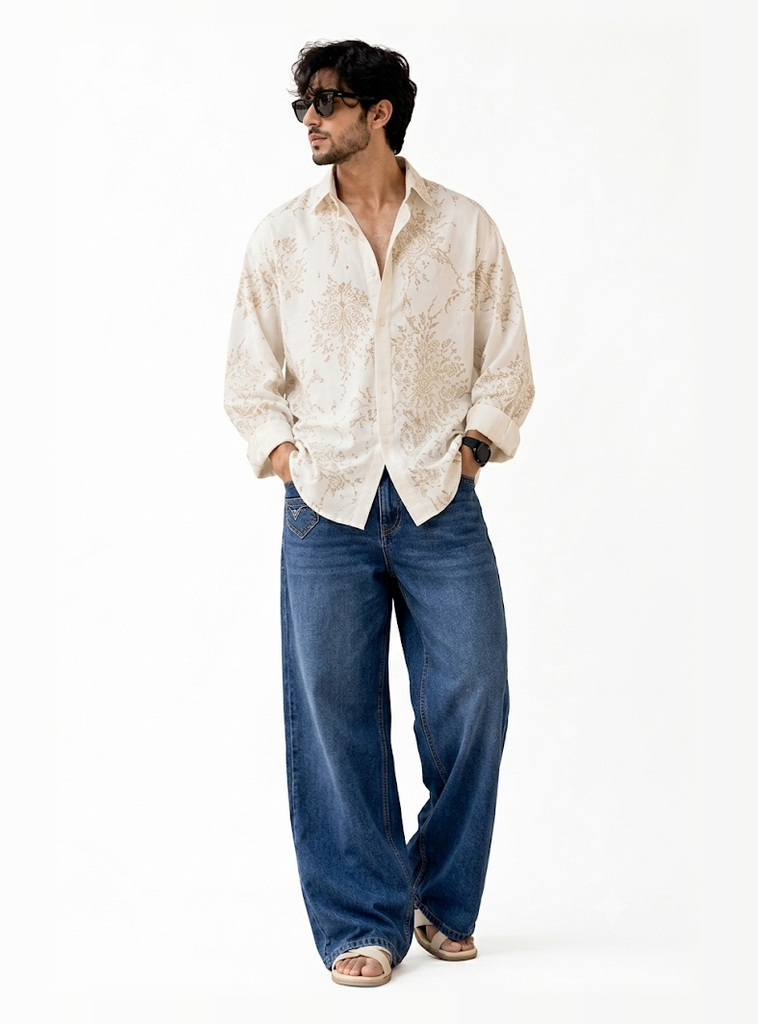
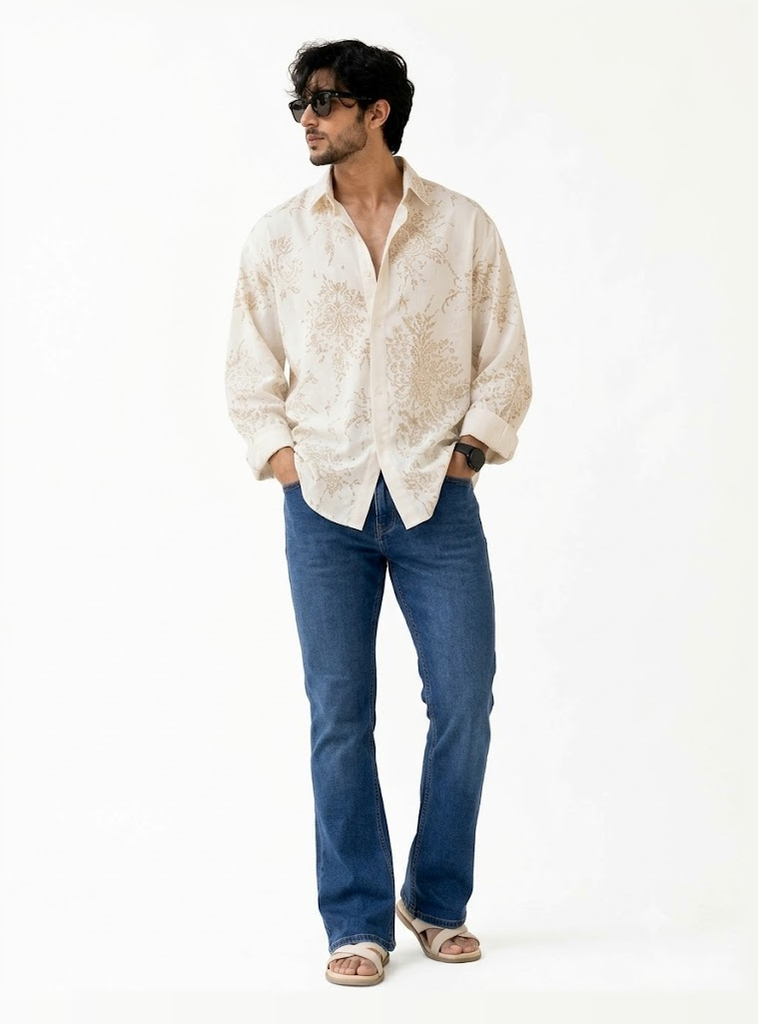
feat(lookbook): update editorial lookbook photography, replace catalog model images, and swap denim positions

Changed region(s): [[0.3034, 0.0312, 0.7282, 0.9688], [0.3641, 0.2188, 0.3945, 0.25]]

diff --git a/app.js b/app.js
@@ -428,7 +428,10 @@ function bindHome2() {
 }
 
 /* ---------- About pages (v2 system): five layouts, same facts ---------- */
-const ED = (n) => `/assets/editorial/${n}.jpg`;
+const ED = (n) => {
+  const [base, qs] = n.split("?");
+  return `/assets/editorial/${base}.jpg${qs ? `?${qs}` : ""}`;
+};
 const AB_NUMS = [["2006", "Founded in Delhi"], ["36 yrs", "Fabric sourcing"], ["08", "States served"], ["100%", "Made in India"]];
 const AB_VALUES = [
   ["Authenticity", "No borrowed heritage — twenty years of our own patterns and our own mill."],
@@ -771,7 +774,7 @@ function lookbook10() {
         <div class="lb10-page lb10-page-r">
           <p class="lb10-pg-top"><span>Looks 04 — 05</span><span>From ${lbTotal(LB2[3])}</span></p>
           <div class="lb10-sp-grid">
-            ${spreadPic("polo-pants", "50% 20%", "light-weight-pant-4037-cream")}
+            ${spreadPic("polo-pants?v=2", "50% 50%", "light-weight-pant-4037-cream")}
             ${spreadPic("stripe-chair", "50% 30%", "corduroy-shirt-141-3-brown")}
             ${spreadPic("lb-pants", "50% 60%", "brawny-5464-off-white")}
             ${spreadPic("lb-collar", "50% 40%", "denim-jacket-152-coal-grey")}
@@ -1116,11 +1119,11 @@ const PANTS_ORDER = [
 
 const DENIM_ORDER = [
   "hulk-32002-dark-blue",
-  "brawny-5551-tinted-indigo",
+  "jazz-3178-ice-berg",
   "jazz-with-fleece-035-light-blue",
   "jazz-3180-dark-blue",
   "jazz-3200-tinted-indigo",
-  "jazz-3178-ice-berg",
+  "brawny-5551-tinted-indigo",
   "jazz-3124-raw-wash",
   "jazz-with-fleece-18014-marvin-blue",
   "hulk-32003-mid-blue",

diff --git a/index.html b/index.html
@@ -93,6 +93,6 @@
       <div class="bag-foot" id="bagFoot"></div>
     </aside>
 
-    <script type="module" src="/app.js?v=260"></script>
+    <script type="module" src="/app.js?v=263"></script>
   </body>
 </html>
